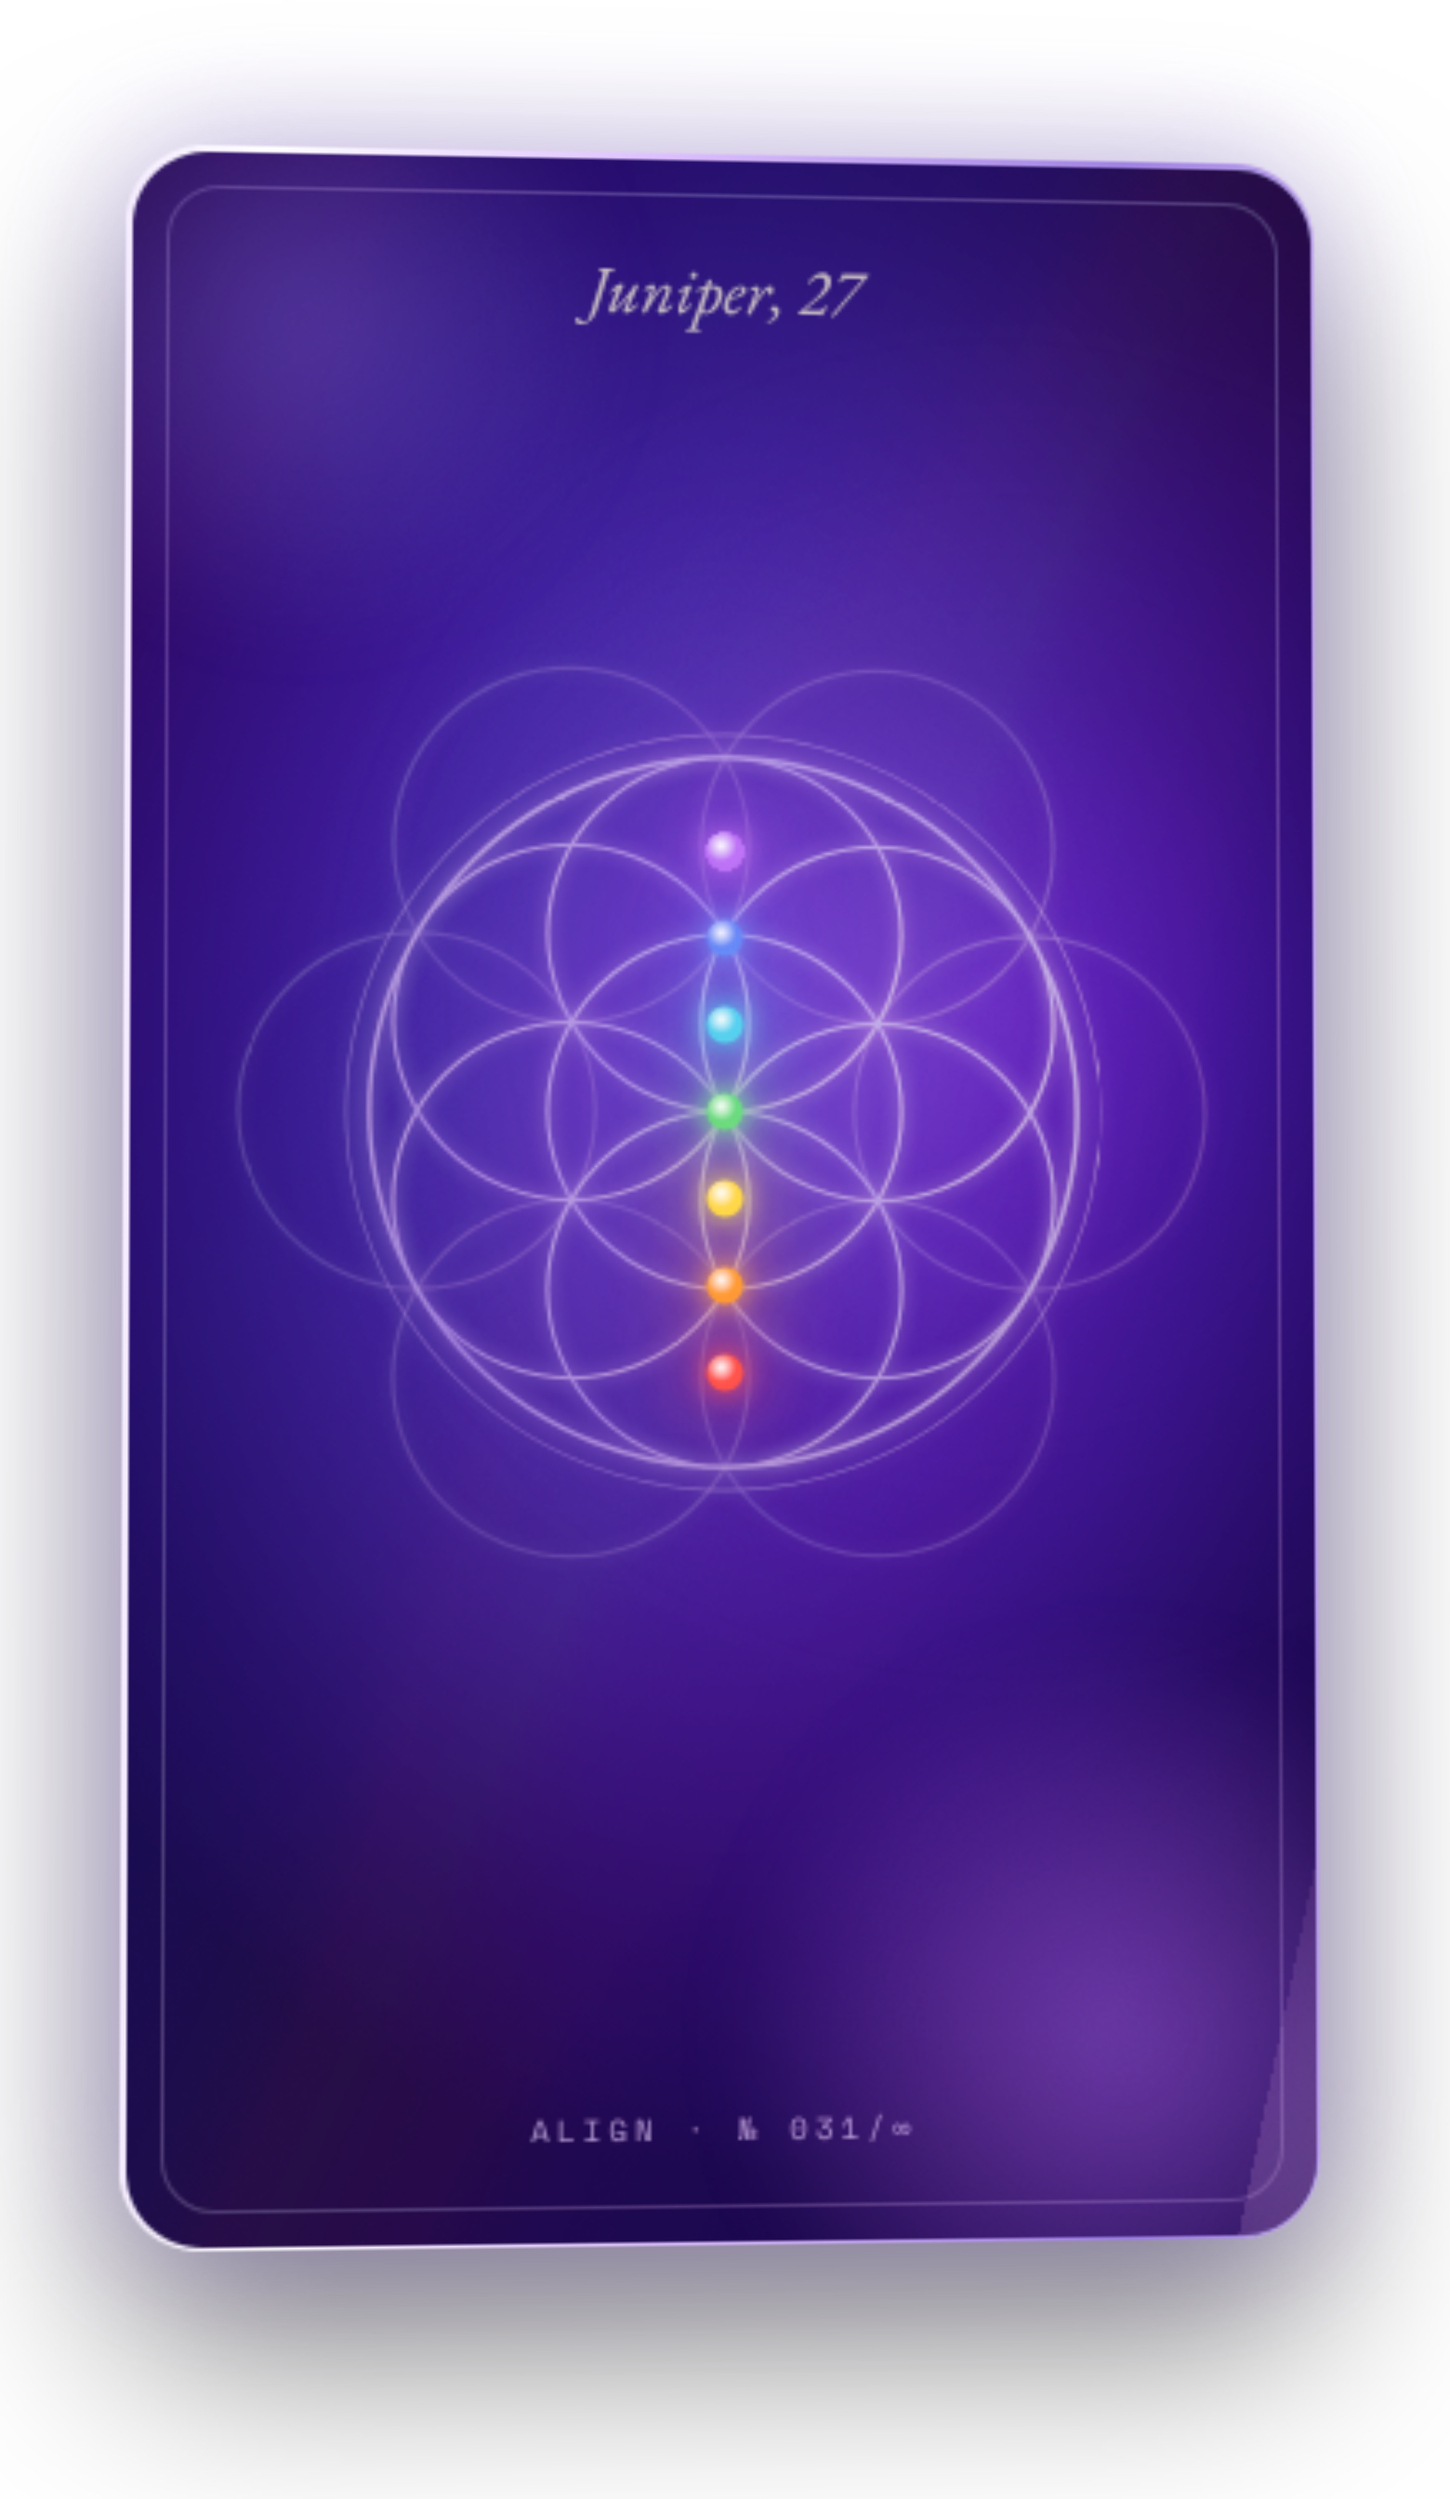
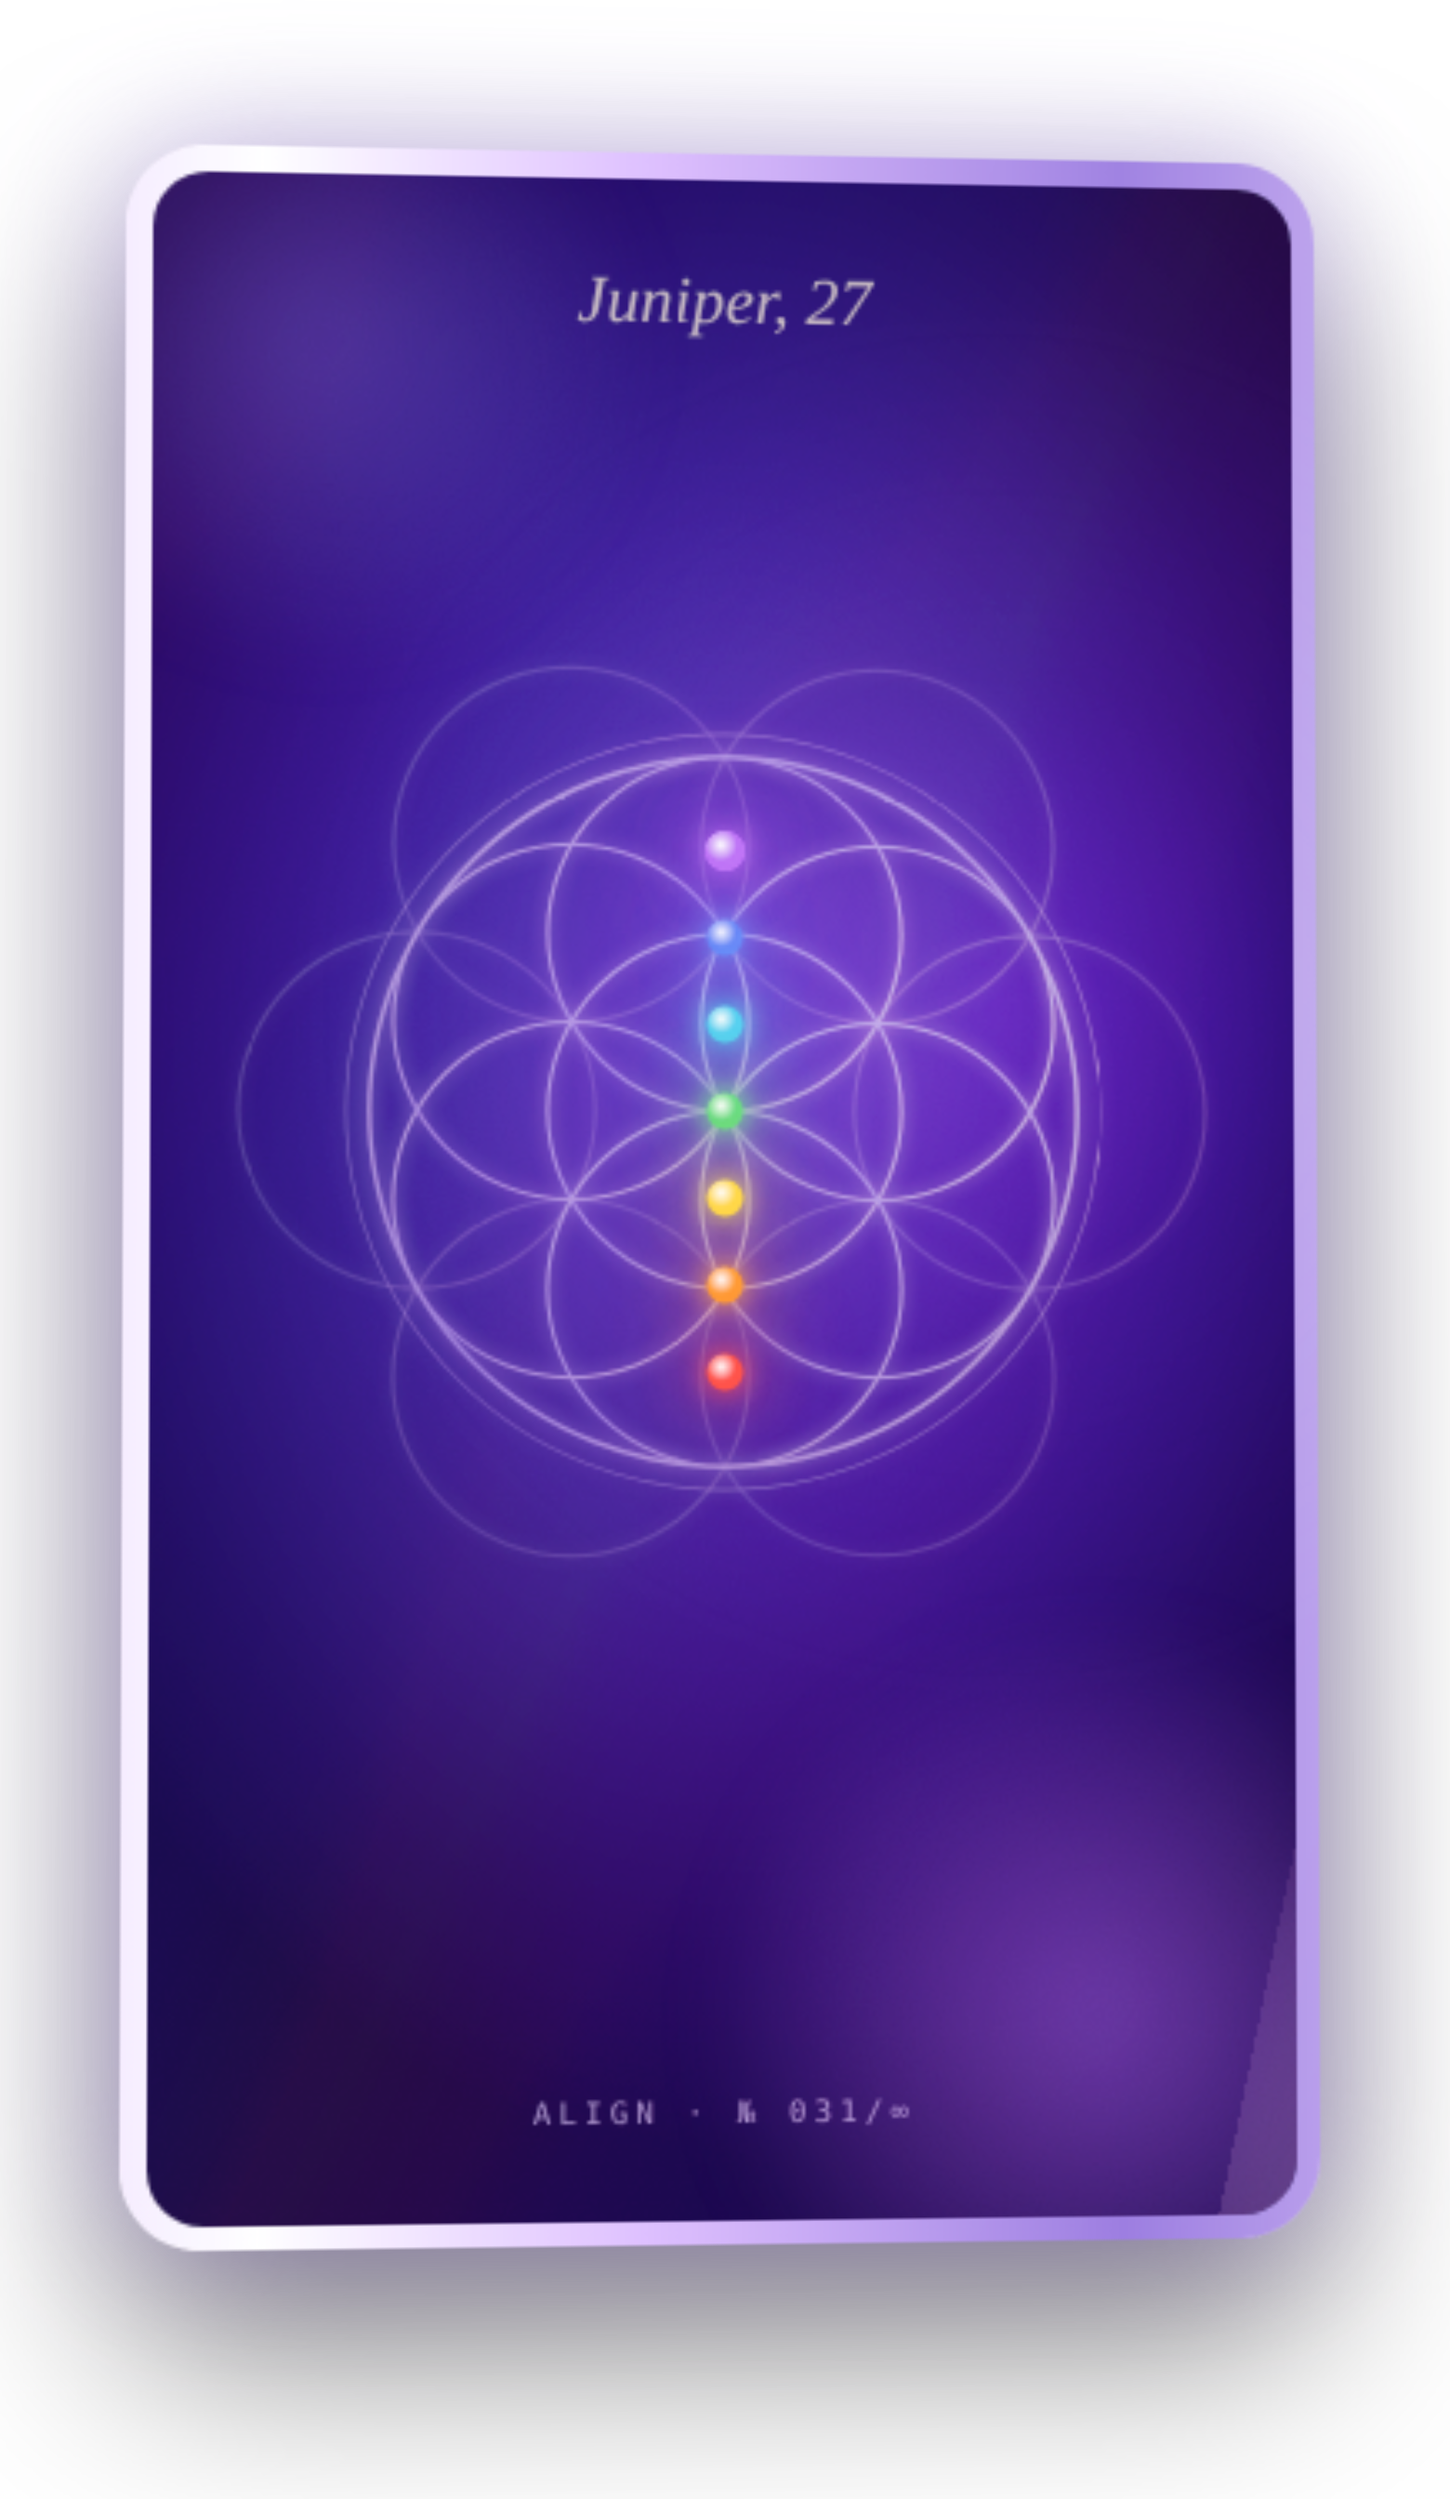
Promo: every card in one thick border, no inner rules
- Profile, peek, reveal, back and talk cards re-captured from the beta app,
  which draws them with a single thick border (talk cards: thick gold, no
  double rule or inner frame). Six talk cards over two dealt days, plus a
  larger daily card.
- Event and sign cards (not in the beta) thickened to the same ~27px border
  from their own edge colour; the stamped sign card is rebuilt from the
  thickened card with the YOUR CARD stamp laid back on.
- Geometry follows the new PNGs: talk card sizes in s6, the stamped sign
  body in s5, and the reveal card's (now inset) photo window in s3, with
  Juniper still 72% down so she's framed past her shoulders.

Claude-Session: https://claude.ai/code/session_01WS8NKXHK6WXc3JEpqqCuLq

Changed region(s): [[0.0615, 0.0625, 0.9231, 0.9062]]

diff --git a/promo/src/scenes/s6-deck.js b/promo/src/scenes/s6-deck.js
@@ -7,7 +7,7 @@ import { VERT, W, H, A, IMG, PEOPLE, SANS, SERIF, MONO, fill, img, Ticks, makeCa
 // iw/ih = PNG size, b = opaque card-body box [l, t, r, b] in PNG px (the rest is the baked glow, which reads
 // dirty on paper — we crop to the body and give each card a clean shadow instead). k = body height vs a profile card.
 const PROF = { iw: 1496, ih: 2238, b: [120, 114, 1374, 2116], k: 1 }
-const TALK = { iw: 732, ih: 1170, b: [60, 60, 672, 1110], k: 0.96 }
+const TALK = { iw: 744, ih: 1194, b: [60, 60, 684, 1134], k: 0.96 }
 const CARD = {
   p1: { src: 'card-profile-1.png', ...PROF },
   p2: { src: 'card-profile-2.png', ...PROF },
@@ -21,10 +21,10 @@ const CARD = {
   t1: { src: 'card-talk-1.png', ...TALK },
   t2: { src: 'card-talk-2.png', ...TALK },
   t3: { src: 'card-talk-3.png', ...TALK },
-  t4: { src: 'card-talk-4.png', ...TALK, b: [60, 60, 672, 1116] },
-  t5: { src: 'card-talk-5.png', ...TALK, b: [60, 60, 672, 1116] },
-  t6: { src: 'card-talk-6.png', ...TALK, b: [60, 60, 672, 1116] },
-  td: { src: 'card-talk-daily.png', iw: 1176, ih: 1884, b: [96, 91, 1080, 1782], k: 0.96 },
+  t4: { src: 'card-talk-4.png', ...TALK },
+  t5: { src: 'card-talk-5.png', ...TALK },
+  t6: { src: 'card-talk-6.png', ...TALK },
+  td: { src: 'card-talk-daily.png', iw: 1178, ih: 1891, b: [96, 96, 1082, 1795], k: 0.96 },
   sign: { src: 'card-sign.png', iw: 848, ih: 1152, b: [120, 121, 727, 1032], k: 0.92 },
   rev: { src: 'card-reveal.png', iw: 1560, ih: 2740, b: [64, 123, 1495, 2622], k: 1.08 },
 }

diff --git a/promo/src/scenes/s3-veil.js b/promo/src/scenes/s3-veil.js
@@ -5,7 +5,7 @@ import { VERT, W, H, A, IMG, PEOPLE, SANS, SERIF, MONO, fill, img, Ticks, makeCa
 // card-reveal.png 1560×2740: card body x 66..1494; photo window x 118..1443, y 314..1207.
 // The window shows juniper.jpg cover-fitted to the window width (1325px → image
 // 1325×1767), with the window top sitting 312px below the image top.
-const REV = { w: 1560, h: 2740, win: { x: 118, y: 314, w: 1325, h: 893 }, imgTop: 629 } // 72% down the photo, matching card-reveal.png: her head near the top, framed past the shoulders instead of at the neck
+const REV = { w: 1560, h: 2740, win: { x: 141, y: 331, w: 1278, h: 864 }, imgTop: 605 } // beta card (thick border): window inset to match; photo 72% down, past her shoulders
 const D = VERT ? 0.53 : 0.35 // display scale → card body ≈ 500px wide, 959px PNG tall (vertical: ≈ 757px wide)
 // card-back.png 1528×2347: body x 120..1439 (1320 wide) → match the front body width
 const BACK = { w: 1528, h: 2347, markX: 782, markY: 1134 }

diff --git a/promo/src/scenes/s5-reading.js b/promo/src/scenes/s5-reading.js
@@ -13,7 +13,7 @@ const VIOLET_HI = '#b9a2f0'
 const MOON_P = 0.36
 const STRIP = [0, 0.0625, 0.125, 0.25, 0.36, 0.5, 0.625, 0.75]   // new → … → full → waning; index 4 = tonight
 const STRIP_CUR = 4
-const SIGN = { src: 'card-sign-stamped.png', iw: 904, ih: 1156, body: [116, 124, 724, 1042] }
+const SIGN = { src: 'card-sign-stamped.png', iw: 904, ih: 1156, body: [121, 125, 727, 1035] }
 // 9:16 cut: title on top, the sign card large in the middle with the phase strip under it, the list below
 // (16:9 keeps its original side-by-side numbers in the else branch)
 const V5 = VERT ? { titleTop: 236, cardBody: 600, cardCY: 682, stripTop: 1004, stripScale: 1.3, listTop: 1164, ROW: 82, icon: 52, iconFS: 32, iconR: 12, labFS: 54, subFS: 46, gap: 20, titleFS: 104 } : null
